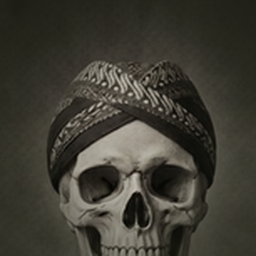
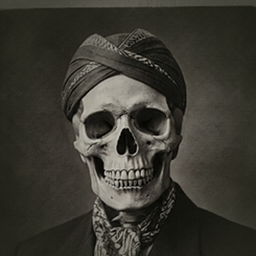
How to play: mechanics only, the characters a surprise; Threaten shown only when possible; Hartono's face in frame
- Threats and disarming states the mechanics without strategy; the Tips section is gone; The
  powers no longer names or describes the characters.
- The Threaten... button appears only once you have tested and can reach someone.
- Chancellor Hartono's portrait regenerated so the whole face is in the head crop.

diff --git a/tools/meshy_portraits.py b/tools/meshy_portraits.py
@@ -38,7 +38,8 @@ PEOPLE = {
     "peacemaker": "A poised South Asian ambassador in her forties, 1940s silk sari worn with a tailored jacket, hair in "
                   "a neat bun, a measured, listening expression, hands clasped.",
     "schemer": "A courtly Javanese chancellor in his sixties, 1940s formal double-breasted suit with a batik-patterned "
-               "cravat and a blangkon cloth headdress, silver moustache, a patient, amused, calculating half-smile.",
+               "cravat and a blangkon cloth headdress, silver moustache, a patient, amused, calculating half-smile. "
+               "The whole face and both shoulders in frame, the portrait filling the entire picture edge to edge.",
 }
 
 
@@ -73,8 +74,8 @@ def req(key, method, url, body=None):
 # head crop per portrait, as fractions of the image: left, top, right, bottom
 HEAD_BOX = {"hawk": (0.28, 0.10, 0.76, 0.58), "dove": (0.29, 0.13, 0.77, 0.61),
             "opp": (0.26, 0.12, 0.74, 0.60), "wild": (0.28, 0.12, 0.76, 0.60),
-            # these two came out as a small print pasted on a dossier page: crop to the print's face
-            "peacemaker": (0.33, 0.12, 0.63, 0.42), "schemer": (0.35, 0.11, 0.65, 0.41),
+            # this one came out as a small print pasted on a dossier page: crop to the print's face
+            "peacemaker": (0.33, 0.12, 0.63, 0.42),
             "pacifist": (0.22, 0.08, 0.72, 0.58)}
 
 
